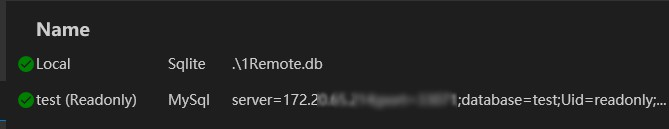
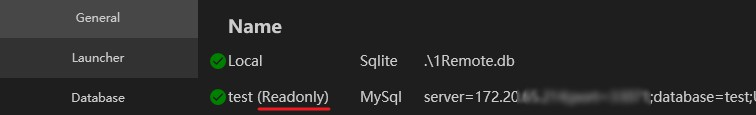
update

diff --git a/source/docs/usage/alternative-credential.md b/source/docs/usage/alternative-credential.md
@@ -4,16 +4,16 @@
 
 ## Why
 
-Since we need to connect to server with different permissions, we need to support multiple credentials. For example:
+Sometimes you need to connect to the same server with different credentials or different host address. For example:
 
 - Case1: You connect to a server with a normal account mostly, and connect to the same server with a root account when do some maintenance work.
 - Case2: You connect to your NAS with LAN address at home, while connect to the same NAS with WAN address when you are outside.
 
 ![multi-credential-demo](img/multi-credential-demo.png)
 
-In these case, "**Alternative-credential**" can help you smoothly switch between different address and account.
-
 ## Add/Edit
+
+In 1Remote "**Alternative-credential**" can help you smoothly switch between different address and account.
 
 In edit page, there's a session for alternative credentials. You can add a new credential by clicking the **`+`** button. Also you can edit or delete a credential by clicking the **`Edit`** button or **`Delete`** button.
 
@@ -23,15 +23,11 @@ When you add a new credential, you need to fill the name, others are optional. T
 
 ![multi-credential-demo](img/multi-credential-edit.jpg)
 
-## Work with
-
-Then you can use the credential in the following places:
-
-### List
+## Work with List
 
 ![List view](img/multi-credential-connect.jpg)
 
-### Launcher(**By press key ++right++**)
+## Work with Launcher(**By press key ++right++**)
 
 ![Launcher(By press key ++right++)](img/multi-credential-connect2.jpg)
 

diff --git a/source/docs/usage/misc/open-a-vpn-before-connect.md b/source/docs/usage/misc/open-a-vpn-before-connect.md
@@ -1,0 +1,29 @@
+Maybe your server needs a VPN connection before you can connect to it. 1Remote can help you open a VPN connection before connecting to the server.
+
+> One of my windows servers is behind VPN. So I have to connect the VPN tunnel first, wait until it's connected, then run the RDP connection. I'm trying to automate this with 1Remote using OpenVPN 2.5.8.
+
+You can open vpn in `Script before connect` 
+and close it in `Script after disconnected`
+
+![image](img/vpn-scripts.jpg)
+
+open-vpn.ps1:
+
+```shell
+"C:\Program Files\OpenVPN\bin\openvpn-gui.exe" --command myconnection.ovpn
+
+Write-Host "Checking VPN connection" -NoNewLine
+$i = 0
+while(1) {
+  Write-Host -NoNewLine ' .'
+  $portOpened = Test-Port $Env:PRM_HOST $Env:PRM_PORT | ? { $_.PortOpened } 
+  if ($portOpened -or $i -gt 60) { break } else { Start-Sleep 1; $i++}
+} 
+if ($i -gt 60) { Write-Error 'timeout' }
+```
+
+close-vpn.ps1:
+
+```shell
+"C:\Program Files\OpenVPN\bin\openvpn-gui.exe" --command disconnect myconnection.ovpn
+```

diff --git a/source/docs/usage/team/team-deploy.md b/source/docs/usage/team/team-deploy.md
@@ -1,0 +1,14 @@
+!!! warning
+    Before deploy this app to your team, you need to set up a MySQL database for your team and create some user for your team members.
+
+Assuming you are the IT administrator and you have already import servers into MySQL database, you can follow the steps below to deploy this app to your team.
+
+1. Exit your MySQL admin account and login as a normal user in 1Remote. Make sure the database is `Readonly`:
+
+    ![readonly](./img/readonly-connected.jpg)
+
+2. Open explorer and navigate to the folder where you have installed 1Remote. Here is how the folder looks like:
+
+    ![folder](./img/folder.jpg)
+
+3. **`1Remote.DataSources.json`** is where we keep MySQL connection string, share this file with your team members, placed it in the same folder with `1Remote.db`.

diff --git a/source/docs/usage/misc/note-for-servers.md b/source/docs/usage/misc/note-for-servers.md
@@ -1,0 +1,11 @@
+We support markdown note to help you remember some important information. The note will be displayed in the connection list and the connection detail page.
+
+![image](img/note-1.jpg)
+
+![image](img/note-2.jpg)
+
+You can edit the note in the edit page or click the edit button on top-right of the note.
+
+We support link, image and others markdown syntax.
+
+![image](img/note-3.jpg)

diff --git a/source/docs/usage/misc/highline-a-server.md b/source/docs/usage/misc/highline-a-server.md
@@ -1,0 +1,12 @@
+
+Highline A Server can makes it easy to find your "VIP" servers.
+
+All you need to do is set the color next to Logo:
+
+![image](img/highline-a-server1.jpg)
+
+Then your "VIP" servers will be highlighted:
+
+![image](img/highline-a-server2.jpg)
+
+![image](img/highline-a-server3.jpg)
